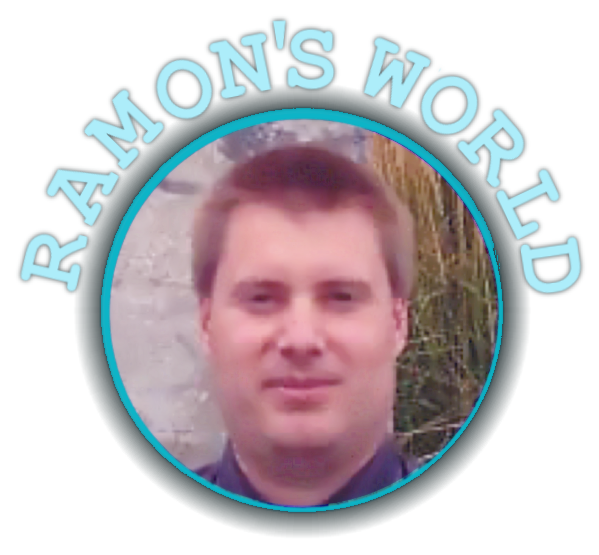
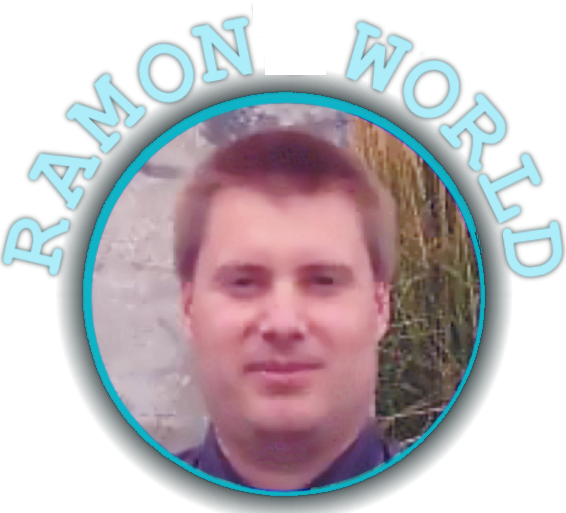
Fixed a bunch of styling stuff.
+Better banner
+banner buttons all in table
+centered page content
+added cart button to button table and aligned to the right for continuity
+other little fixes

-removed style config in shop.html as the cart button is now part of the button table.

diff --git a/WebContent/shop.html b/WebContent/shop.html
@@ -2,30 +2,30 @@
 <html>
 <head>
 <style>
-.toprightcorner {
-  position: absolute;
-  top: 0px;
-  right: 0px;
-}
 </style>
-        <title>Ramon's World Gift Shop Main Page</title>
+        <title>Ramon World Gift Shop Main Page</title>
         
         <link rel="stylesheet" type="text/css" href="style.css" />
 </head>
 <body>
-      
 
-<div id="banner">
-        <div id="banner-content" style="background: url('images/banner.png') no-repeat center;">
-                <table border="1"><tr><th><a href="shop.html"><img src="images/icon.png" alt="Home" height="200" ></a></th><th><a href="listprod.jsp">Begin<br>Shopping</a></th><th><a href="listorder.jsp">List All<br>Orders</a></th></tr></table>
-                <! --places cart link in top right corner using class created in style--> 
-                <div class="toprightcorner">
-                        <a href="checkout.jsp"><img src="images/cart.png" alt="Cart" height="50" ></a> 
-                </div>
-        </div>
-</div>
+
+
+
+<! buttons !>
+<table class="buttons" border="0" width="100%"><tr>     <th class="buttons" align="left"><a href="shop.html"><img src="images/icon.png" alt="Home" height="100" ></a></th>
+                                                        <th class="buttons"><a href="listprod.jsp">Begin Shopping</a></th>
+                                                        <th class="buttons"><a href="listorder.jsp">List All Orders</a></th>
+                                                        <th class="buttons" align="right"><a href="checkout.jsp"><img src="images/cart.png" alt="Cart" height="100" ></a></th></tr></table>
+
+<! banner image below buttons !>
+<div id="bannerimage"></div>
+
+
+
+
 <div id="main-content" align="center">
-        <h1 align="center">Welcome to Ramon's World Gift Shop!</h1>
+        <h1 align="center">Welcome to the Ramon World Gift Shop!</h1>
         <br>
         <br>
         <img src="images/ramonworld.png" alt="RamonWorld" align = "center">

diff --git a/WebContent/style.css b/WebContent/style.css
@@ -1,7 +1,8 @@
 /*=========================================================*/
 /* Variables (color scheme)*/
 :root {
-    --background: #2d3133;
+    --background: #21262e;
+    --backgroundtop: #002f52;
     --font: #cccccc;
     --border: #5d5f70;
     --accent1: #313b3f;
@@ -16,21 +17,19 @@
     padding: 0;
   }
 
-  div#banner { 
-    position: absolute; 
-    top: 0; 
-    left: 0; 
-    background-color: var(--background); 
-    width: 100%; 
+  div#main-content {
+    padding-top: 50px; 
+    margin: auto;
+    border: 2px solid #FFFF00;
+    width: min-content;
+    min-width: 300px;
   }
-  div#banner-content { 
-    width: auto; 
-    margin: auto; 
-    padding: 5px; 
-  }
-  div#main-content { 
-    padding-top: 260px;
-    margin: 30px;
+  div#bannerimage {
+    width: 100%;
+    background-image: url(images/banner.PNG);
+    height: 316px;
+    background-color: purple;
+    background-position: center;
   }
 
 
@@ -52,7 +51,6 @@ table {
     border-spacing: 1px;
     
 }
-
 /* Table Headers */
 th {
     border: 1px solid var(--accent1);
@@ -71,6 +69,21 @@ td {
     padding: 6px;
 }
 
+table.buttons {
+    border-collapse: collapse;
+}
+th.buttons {
+    border: 0px;
+    background-color: var(--backgroundtop);
+    color: var(--font);
+    font-variant-caps: all-small-caps;
+    font-size: xx-large;
+}
+td.buttons {
+    background-color: var(--backgroundtop);
+    color: var(--font);
+    font-weight: 600;
+}
 
 /*=========================================================*/
 /* Links */
